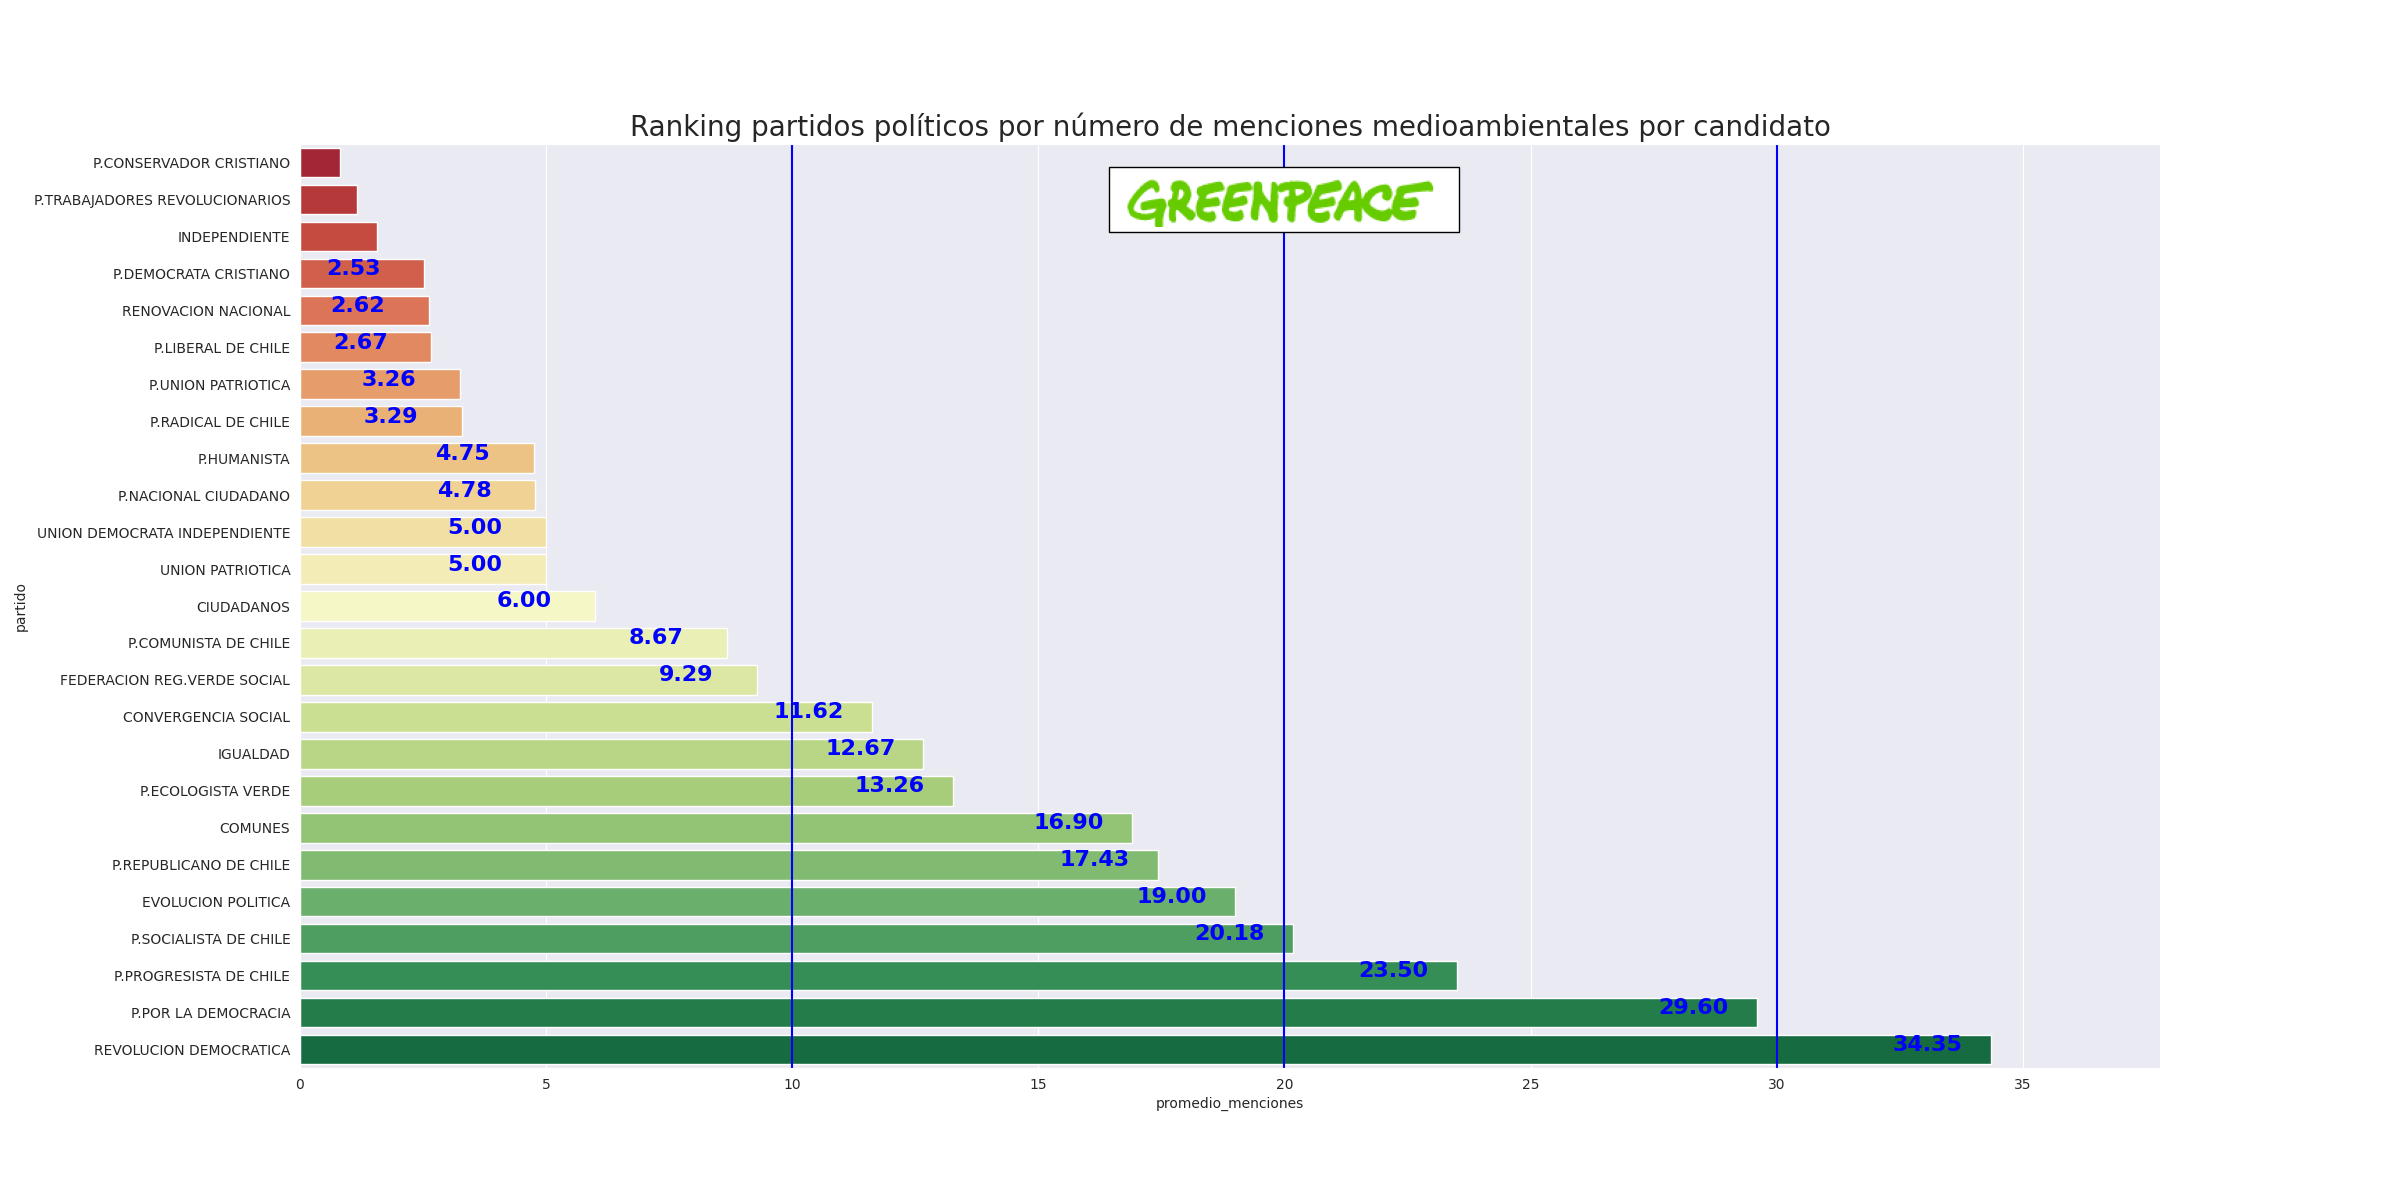
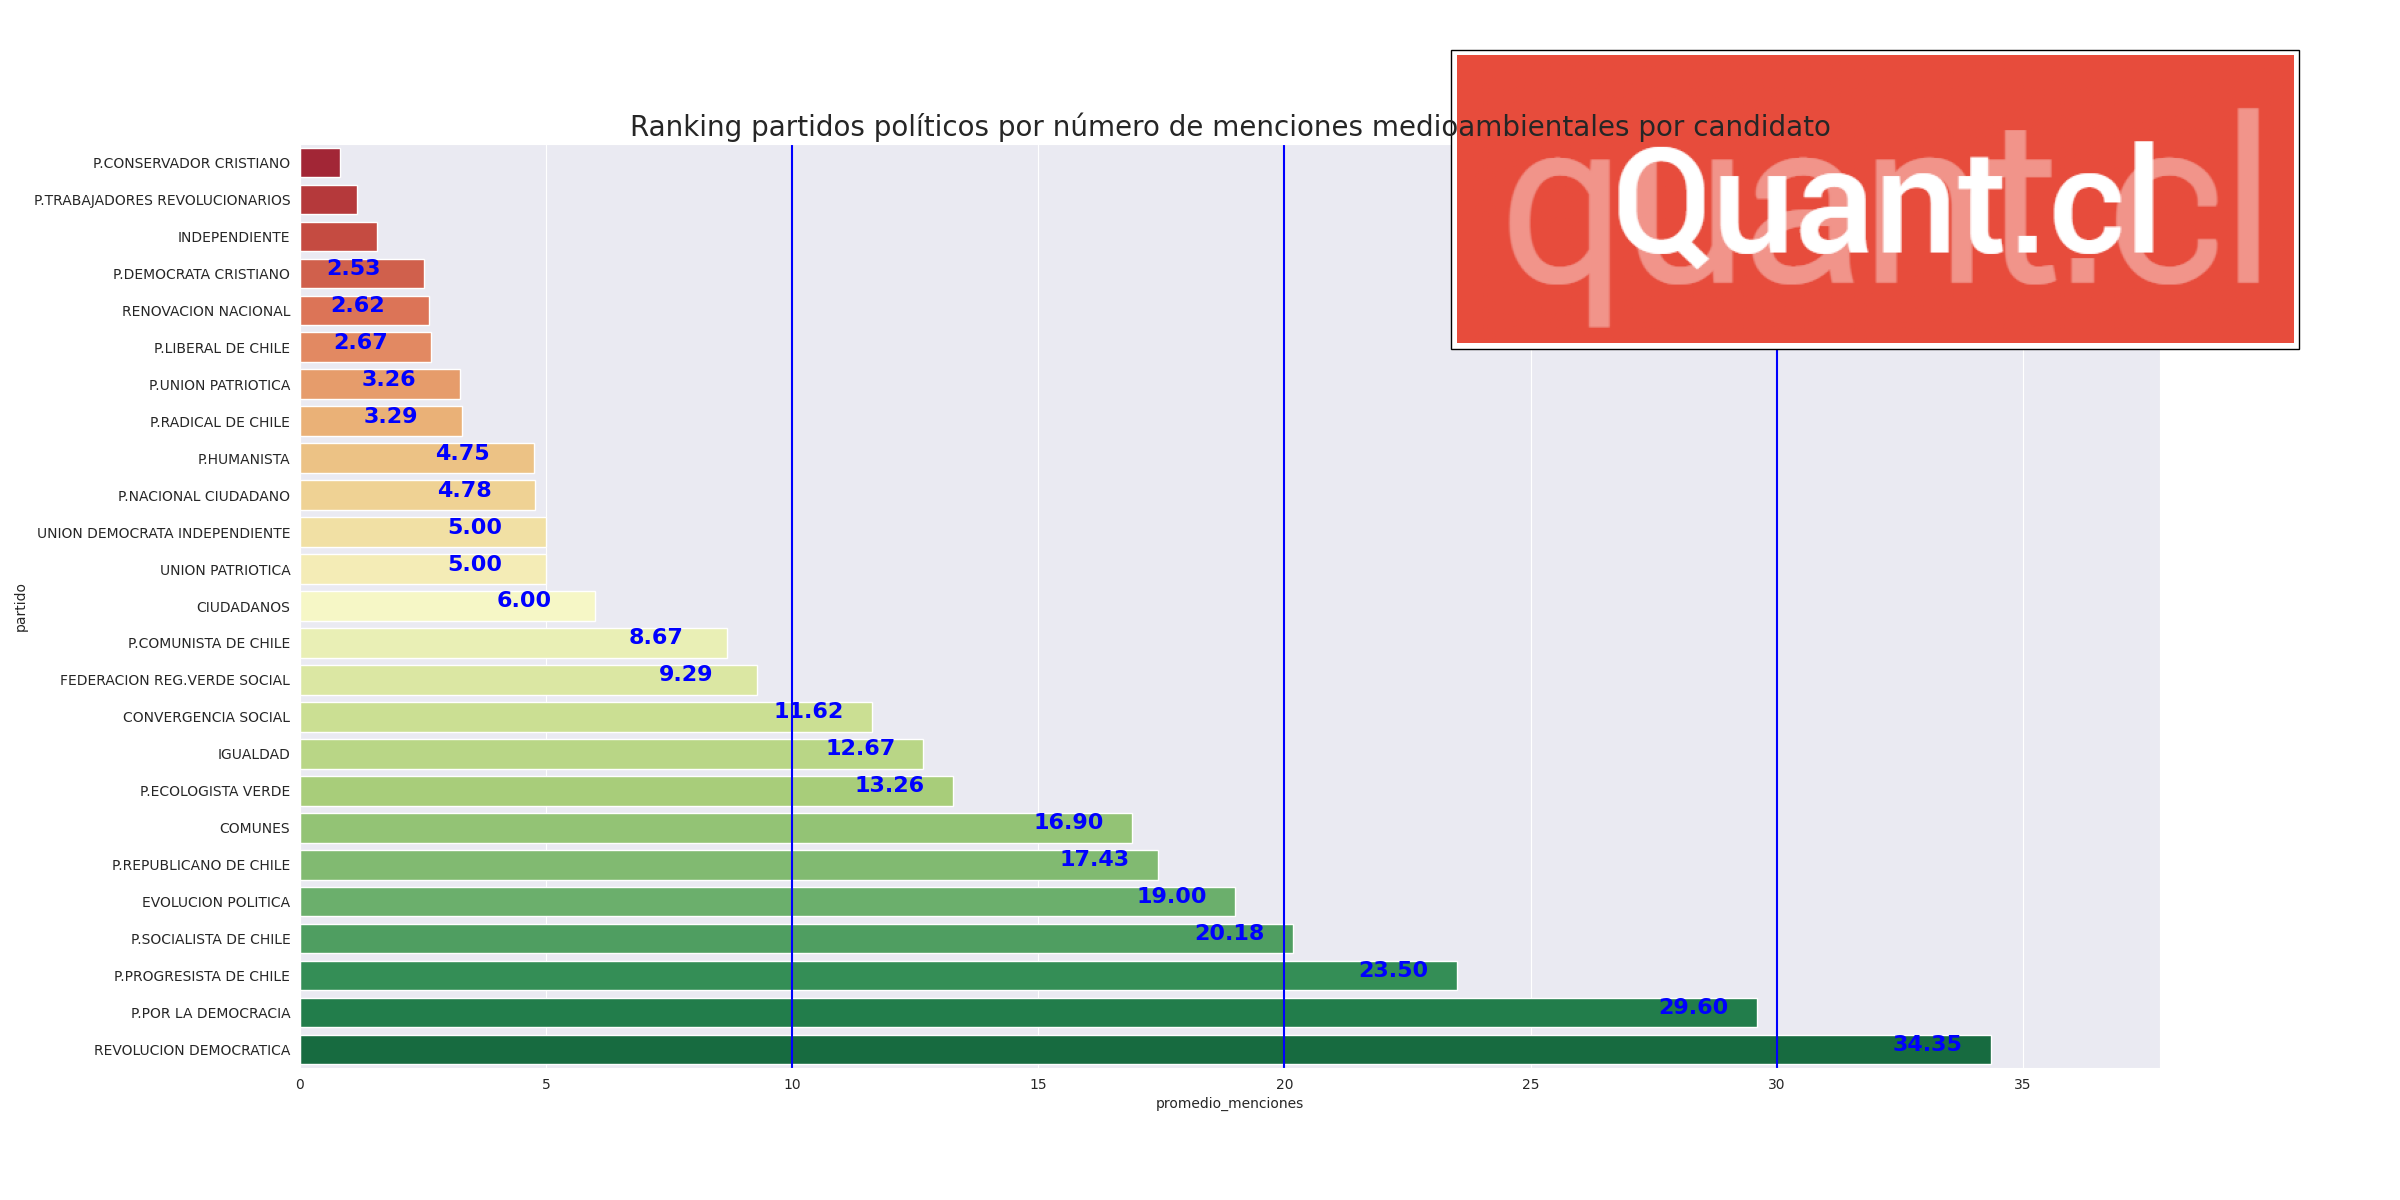
relocating

Changed region(s): [[0.4688, 0.0308, 0.9688, 0.3083]]

diff --git a/plotters.py b/plotters.py
@@ -355,10 +355,14 @@ for xx in (10,20,30):
     plt.axvline(x=xx, color='blue')
 plt.margins(x=0.1)
 label_barplot(ax)
-
-arr_lena = mpimg.imread('greenpeace.png')
+#############################################   LOGOS
+arr_lena = mpimg.imread('static/greenpeace.png')
 imagebox = OffsetImage(arr_lena, zoom=1.0)
-ab = AnnotationBbox(imagebox, (20, 1.0))
+ab = AnnotationBbox(imagebox, (30, 1.0))
+ax.add_artist(ab)
+arr_lena = mpimg.imread('static/QuantLogo2.png')
+imagebox = OffsetImage(arr_lena, zoom=1.0)
+ab = AnnotationBbox(imagebox, (32, 1.0))
 ax.add_artist(ab)
 #################
 plt.title('Ranking partidos políticos por número de menciones medioambientales por candidato', size=20)
